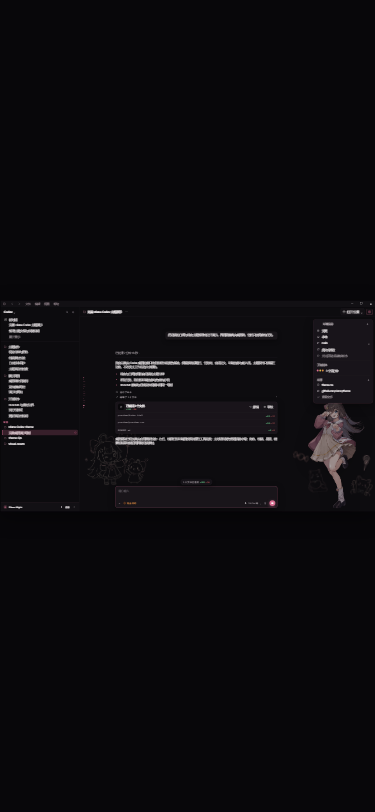
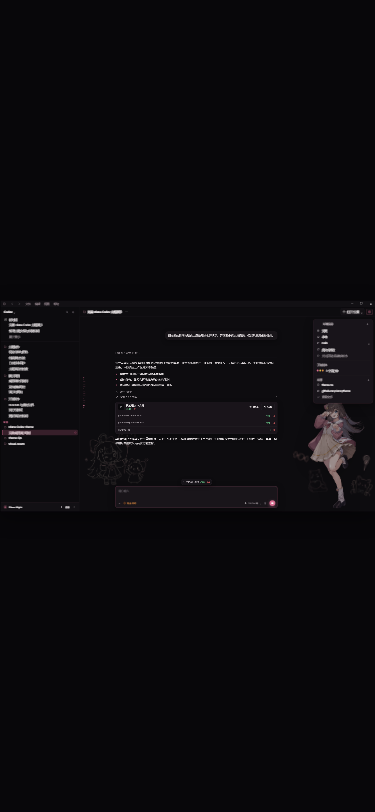
Add narrated Diana demo with subtitles and original music

Changed region(s): [[0.2933, 0.4002, 0.7333, 0.5542]]

diff --git a/preview/preview.css b/preview/preview.css
@@ -29,6 +29,8 @@
   --video-caption-opacity: 0;
   --video-caption-shift: 12px;
   --video-transition-opacity: 0;
+  --video-intro-opacity: 0;
+  --video-intro-scale: 1;
   --video-end-opacity: 0;
   --video-end-shift: 18px;
   --video-camera-scale: 1;
@@ -240,6 +242,22 @@ button:focus-visible, textarea:focus-visible, select:focus-visible, input:focus-
 .source-heading .inspector-label { margin-bottom: 0; }
 
 .video-transition { position: absolute; z-index: 40; inset: 0; background: var(--video-transition-color, #fbf8f6); opacity: 0; pointer-events: none; }
+.video-intro { position: absolute; z-index: 50; inset: 0; overflow: hidden; background: radial-gradient(circle at 72% 48%, rgb(104 53 72 / 22%), transparent 28%), linear-gradient(135deg, #0c0b0e 0%, #121015 58%, #0b0a0d 100%); color: #f7eef2; opacity: 0; transform: scale(var(--video-intro-scale)); transform-origin: center; pointer-events: none; }
+.video-intro::before { content: ""; position: absolute; inset: 34px; border: 1px solid rgb(226 126 160 / 15%); border-radius: 24px; }
+.video-intro-orbit { position: absolute; left: 50%; top: 50%; width: 760px; height: 760px; border: 1px solid rgb(231 153 176 / 14%); border-radius: 50%; transform: translate(-12%, -50%); box-shadow: 0 0 0 72px rgb(231 153 176 / 2.5%), 0 0 0 190px rgb(231 153 176 / 1.5%); }
+.video-intro-doodle { position: absolute; left: 92px; bottom: -46px; width: 520px; aspect-ratio: 1267 / 1241; background: url("../assets/diana-brand/derived/diana-doodle-chalk-v2-approved.png") center / contain no-repeat; opacity: .31; filter: brightness(.88) saturate(.82); }
+.video-intro-character { position: absolute; right: 86px; bottom: -86px; width: 650px; height: 990px; background: url("../assets/diana-brand/derived/diana-night-v3.png") right bottom / contain no-repeat; opacity: .72; filter: brightness(1.04) saturate(.92) drop-shadow(0 34px 80px rgb(0 0 0 / 38%)); }
+.video-intro-copy { position: absolute; z-index: 2; left: 470px; top: 395px; display: grid; gap: 12px; }
+.video-intro-copy::before { content: ""; width: 62px; height: 3px; margin-bottom: 6px; border-radius: 99px; background: #df7196; box-shadow: 0 0 22px rgb(223 113 150 / 32%); }
+.video-intro-copy small { color: #dc7899; font: 650 12px/1.4 "Cascadia Code", Consolas, monospace; letter-spacing: .18em; }
+.video-intro-copy strong { font-size: 62px; line-height: 1.05; letter-spacing: -.045em; }
+.video-intro-copy strong i { color: #d87898; font-style: normal; font-weight: 450; }
+.video-intro-copy p { margin: 0; color: rgb(247 238 242 / 62%); font: 500 18px/1.5 "Cascadia Code", Consolas, monospace; letter-spacing: .04em; }
+.video-intro-star, .video-intro-candy { position: absolute; display: block; background-position: center; background-size: contain; background-repeat: no-repeat; }
+.video-intro-star { width: 52px; aspect-ratio: 1; background-image: url("../assets/diana-brand/derived/diana-hand-star-reference-v2.png"); opacity: .62; filter: brightness(.92) saturate(.84); }
+.video-intro-star-a { left: 386px; top: 314px; transform: rotate(-13deg); }
+.video-intro-star-b { right: 70px; top: 104px; width: 36px; transform: rotate(11deg); }
+.video-intro-candy { left: 876px; bottom: 156px; width: 78px; aspect-ratio: 1; background-image: url("../assets/diana-brand/derived/diana-candy-wrapped-v1.png"); opacity: .56; filter: brightness(.88) saturate(.86); transform: rotate(9deg); }
 .video-caption { position: absolute; z-index: 32; left: 455px; top: 103px; display: flex; align-items: stretch; gap: 14px; min-width: 390px; padding: 12px 17px 12px 13px; border: 1px solid color-mix(in srgb, var(--accent) 30%, transparent); border-radius: 12px; background: color-mix(in srgb, var(--panel-strong) 88%, transparent); color: var(--ink); box-shadow: 0 16px 42px var(--shadow); backdrop-filter: blur(12px); opacity: 0; transform: translateY(12px); pointer-events: none; }
 .video-caption-index { width: 38px; display: grid; place-items: center; border-right: 1px solid var(--work-panel-border); color: var(--accent); font: 650 12px/1 "Cascadia Code", Consolas, monospace; letter-spacing: .08em; }
 .video-caption > div { display: grid; gap: 2px; }
@@ -253,6 +271,7 @@ button:focus-visible, textarea:focus-visible, select:focus-visible, input:focus-
 .video-end-card code { display: inline-block; padding: 8px 11px; border: 1px solid var(--work-panel-border); border-radius: 8px; background: var(--accent-wash); color: color-mix(in srgb, var(--ink) 78%, var(--accent)); font: 12px/1.4 "Cascadia Code", Consolas, monospace; }
 :root[data-video="on"] .app-grid { transition: none !important; }
 :root[data-video="on"] .video-transition { opacity: var(--video-transition-opacity); }
+:root[data-video="on"] .video-intro { opacity: var(--video-intro-opacity); }
 :root[data-video="on"] .video-caption { opacity: var(--video-caption-opacity); transform: translateY(var(--video-caption-shift)); }
 :root[data-video="on"] .video-end-card { opacity: var(--video-end-opacity); transform: translate(-50%, calc(-50% + var(--video-end-shift))); }
 :root[data-video="on"] :is(.simulation-note, .demo-controls, .controls-open) { display: none !important; }

diff --git a/preview/preview.js b/preview/preview.js
@@ -106,7 +106,7 @@ setScene(params.get('scene') || root.dataset.scene);
 if (params.has('time')) renderTimeline(Number(params.get('time')));
 setPlaying(params.get('play') === '1');
 
-const videoDuration = 30;
+const videoDuration = 45;
 const easeInOut = (value) => {
   const t = clamp(value);
   return t < .5 ? 2 * t * t : 1 - Math.pow(-2 * t + 2, 2) / 2;
@@ -126,41 +126,46 @@ function setVideoCaption(index, title, opacity) {
 
 function renderVideo(rawTime) {
   const time = Math.min(videoDuration, Math.max(0, Number(rawTime) || 0));
-  const lightPhase = time >= 15 && time < 25.2;
+  const lightPhase = time >= 23.5 && time < 35.5;
   setTheme(lightPhase ? 'light' : 'dark');
   root.dataset.inspector = 'open';
   panelToggle.setAttribute('aria-pressed', 'true');
   panelToggle.classList.add('is-on');
 
   let timelineProgress = .12;
-  if (time >= 2 && time < 7) timelineProgress = .12 + ramp(time, 2, 7) * .46;
-  else if (time >= 7 && time < 12.4) timelineProgress = .58 + ramp(time, 7, 12.4) * .36;
-  else if (time >= 12.4 && time < 15) timelineProgress = .94;
-  else if (time >= 15 && time < 17.2) timelineProgress = .12 + ramp(time, 15, 17.2) * .46;
-  else if (time >= 17.2 && time < 21.4) timelineProgress = .58 + ramp(time, 17.2, 21.4) * .36;
+  if (time >= 3 && time < 10) timelineProgress = .12 + ramp(time, 3, 10) * .46;
+  else if (time >= 10 && time < 20.8) timelineProgress = .58 + ramp(time, 10, 20.8) * .36;
+  else if (time >= 20.8 && time < 23.5) timelineProgress = .94;
+  else if (time >= 23.5 && time < 27) timelineProgress = .12 + ramp(time, 23.5, 27) * .46;
+  else if (time >= 27 && time < 33.5) timelineProgress = .58 + ramp(time, 27, 33.5) * .36;
   else timelineProgress = .94;
   renderTimeline(timelineProgress);
 
-  let caption = { index: '01', title: '暗夜，不牺牲工作区', opacity: holdOpacity(time, .45, 4.4) };
-  if (time >= 5.5 && time < 13.2) caption = { index: '02', title: '真实任务密度与原生信息层级', opacity: holdOpacity(time, 6.2, 12.6, .65) };
-  if (time >= 15 && time < 20.4) caption = { index: '03', title: '日间，暖白与彩色细线', opacity: holdOpacity(time, 15.65, 20, .65) };
-  if (time >= 20.4 && time < 25) caption = { index: '04', title: '边角陪伴，不拦截任何交互', opacity: holdOpacity(time, 20.8, 24.55, .6) };
-  if (time >= 25) caption = { index: '04', title: '', opacity: 0 };
+  let caption = { index: '01', title: '为 Windows Codex 制作', opacity: holdOpacity(time, 3.15, 7.15) };
+  if (time >= 7.15 && time < 14.6) caption = { index: '02', title: '暗夜，暖黑与莓粉', opacity: holdOpacity(time, 7.55, 14.15, .65) };
+  if (time >= 14.6 && time < 23.2) caption = { index: '03', title: '保留原生信息与交互层级', opacity: holdOpacity(time, 15, 22.75, .65) };
+  if (time >= 23.2 && time < 30.5) caption = { index: '04', title: '日间，暖白与彩色细线', opacity: holdOpacity(time, 24.05, 30.05, .65) };
+  if (time >= 30.5 && time < 35.3) caption = { index: '05', title: '日夜切换，也能随时恢复', opacity: holdOpacity(time, 30.85, 34.95, .6) };
+  if (time >= 35.3) caption = { index: '05', title: '', opacity: 0 };
   setVideoCaption(caption.index, caption.title, caption.opacity);
 
-  const firstTransition = Math.max(0, 1 - Math.abs(time - 15) / .72);
-  const secondTransition = Math.max(0, 1 - Math.abs(time - 25.2) / .58);
+  const firstTransition = Math.max(0, 1 - Math.abs(time - 23.5) / .72);
+  const secondTransition = Math.max(0, 1 - Math.abs(time - 35.5) / .58);
   const transitionOpacity = Math.pow(Math.max(firstTransition, secondTransition), .72) * .985;
   root.style.setProperty('--video-transition-opacity', transitionOpacity.toFixed(3));
-  root.style.setProperty('--video-transition-color', time < 20 ? '#fbf8f6' : '#0d0c0f');
+  root.style.setProperty('--video-transition-color', time < 30 ? '#fbf8f6' : '#0d0c0f');
+
+  const introOpacity = 1 - ramp(time, 2.15, 3.05);
+  root.style.setProperty('--video-intro-opacity', introOpacity.toFixed(3));
+  root.style.setProperty('--video-intro-scale', (1 + ramp(time, 0, 3.05) * .018).toFixed(5));
 
   const cameraPulse = Math.max(
-    holdOpacity(time, 7.7, 12.7, 1.2),
-    holdOpacity(time, 20.8, 24.6, .9)
+    holdOpacity(time, 11, 20.6, 1.2),
+    holdOpacity(time, 26.7, 34.8, .9)
   );
   root.style.setProperty('--video-camera-scale', (1 + cameraPulse * .012).toFixed(5));
 
-  const endOpacity = ramp(time, 25.7, 27.1);
+  const endOpacity = ramp(time, 36.1, 37.35);
   root.style.setProperty('--video-end-opacity', endOpacity.toFixed(3));
   root.style.setProperty('--video-end-shift', `${((1 - endOpacity) * 18).toFixed(2)}px`);
   return { time, theme: root.dataset.theme, timelineProgress, caption: caption.title, endOpacity };

diff --git a/preview/index.html b/preview/index.html
@@ -82,6 +82,19 @@
         </main>
       </div>
       <div class="video-transition" aria-hidden="true"></div>
+      <div class="video-intro" aria-hidden="true">
+        <span class="video-intro-orbit"></span>
+        <span class="video-intro-doodle"></span>
+        <span class="video-intro-character"></span>
+        <span class="video-intro-star video-intro-star-a"></span>
+        <span class="video-intro-star video-intro-star-b"></span>
+        <span class="video-intro-candy"></span>
+        <div class="video-intro-copy">
+          <small>DAY / NIGHT · OPEN SOURCE</small>
+          <strong>嘉然 <i>×</i> Codex</strong>
+          <p>Diana Codex Theme</p>
+        </div>
+      </div>
       <div class="video-caption" aria-hidden="true">
         <span class="video-caption-index">01</span>
         <div><small>Diana Codex Theme</small><strong>暗夜，不牺牲工作区</strong></div>

diff --git a/README.md b/README.md
@@ -4,7 +4,7 @@
 
 一套为 Windows Codex 桌面端制作的嘉然（Diana）非商业同人主题。日间与暗夜分别设计，保留 Codex 原本的工具感，只让嘉然与手绘线稿安静地停留在工作区边角。
 
-[在线演示](https://lanmengsakura.github.io/diana-codex-theme/) · [30 秒演示视频](https://github.com/lanmengSakura/diana-codex-theme/releases/download/v0.1.0/diana-codex-theme-demo-v1.mp4) · [下载发行包](https://github.com/lanmengSakura/diana-codex-theme/releases/latest) · [兼容性记录](docs/compatibility.md) · [参与贡献](CONTRIBUTING.md)
+[在线演示](https://lanmengsakura.github.io/diana-codex-theme/) · [45 秒带声演示](https://github.com/lanmengSakura/diana-codex-theme/releases/download/v0.1.0/diana-codex-theme-demo-v2-zh-CN.mp4) · [下载发行包](https://github.com/lanmengSakura/diana-codex-theme/releases/latest) · [兼容性记录](docs/compatibility.md) · [参与贡献](CONTRIBUTING.md)
 
 ![Release](https://img.shields.io/github/v/release/lanmengSakura/diana-codex-theme?display_name=tag&color=b84970&label=release)
 ![Platform](https://img.shields.io/badge/platform-Windows%2011-b85f7c)
@@ -18,7 +18,7 @@
 
 ## 效果预览
 
-<p align="center"><a href="https://github.com/lanmengSakura/diana-codex-theme/releases/download/v0.1.0/diana-codex-theme-demo-v1.mp4"><strong>▶ 观看 30 秒日间／暗夜主题演示</strong></a></p>
+<p align="center"><a href="https://github.com/lanmengSakura/diana-codex-theme/releases/download/v0.1.0/diana-codex-theme-demo-v2-zh-CN.mp4"><strong>▶ 观看 45 秒中文旁白、字幕与原创配乐演示</strong></a></p>
 
 <a href="https://lanmengsakura.github.io/diana-codex-theme/?theme=dark&scene=complete&controls=none">
   <img src="preview/qa/readme-dark-1600x900.png" alt="Diana Night 暗夜主题高保真模拟界面" width="100%">
@@ -132,13 +132,13 @@ preview/index.html?theme=light&scene=complete&controls=none
 preview/index.html?theme=dark&scene=inspect&controls=none&play=1
 ```
 
-仓库同时保留了宣传视频的确定性时间轴和逐帧渲染器。维护者在本机准备 Chrome CDP `9227` 端口及 FFmpeg 后，可以重新导出同款 30 秒、`1920 × 1080`、`30fps` 成片：
+仓库同时保留了宣传视频的确定性时间轴、旁白母稿、字幕、原创配乐生成器和逐帧渲染器。维护者在本机准备 Chrome CDP `9227` 端口、FFmpeg、Python 与 `edge-tts` 后，可以重新导出同款 45 秒、`1920 × 1080`、`30fps` 带声成片：
 
 ```powershell
-npm run preview:video
+npm run preview:video:narrated
 ```
 
-脚本只读取这套虚构桌面母版，不会捕获真实 Codex 窗口或用户数据；生成的 MP4 与封面位于 `dist/`，不会自动写入 Git 历史。
+只需要无声视觉母版时，可以执行 `npm run preview:video`。完整脚本只读取这套虚构桌面母版，不会捕获真实 Codex 窗口或用户数据；生成的 MP4、旁白、配乐与封面位于 `dist/`，不会自动写入 Git 历史。配乐由仓库脚本原创合成，不包含官方歌曲、嘉然翻唱或第三方录音；具体边界见 [素材许可与署名](ASSET_LICENSES.md)。
 
 ## 它是怎样工作的
 

diff --git a/ASSET_LICENSES.md b/ASSET_LICENSES.md
@@ -23,6 +23,16 @@
 
 The character name, likeness, artwork, and derivative image are **not** covered by this repository's MIT License. Reusers must independently comply with the applicable official fan-creation rules and preserve attribution where required.
 
+## Demo video audio
+
+- Chinese narration source: `video/narration-zh-CN.txt`
+- Timed subtitle source: `video/subtitles-zh-CN.srt`
+- Original background-music generator: `video/generate-bgm.mjs`
+- The released demo uses an original deterministic bell, pluck, pad and soft-bass arrangement generated by the repository script. It does not sample, reproduce, remix or redistribute an official A-SOUL song, a Diana cover, or a third-party recording.
+- The narration is generated from the repository script text; no Diana voice sample or cloned character voice is used.
+
+The music generator and narration/subtitle text are covered by the repository's MIT License. The rendered video still contains the Diana visual assets described above and therefore remains a non-commercial fan work rather than an all-assets-MIT package.
+
 ## OpenAI / Codex
 
 This repository contains no Codex application binaries, proprietary application assets, or modified installation packages. “Codex” is used only to describe compatibility with the target application. This project is unofficial and is not endorsed by OpenAI.

diff --git a/video/README.md b/video/README.md
@@ -1,0 +1,9 @@
+# 宣传视频素材
+
+这里保存宣传片的可编辑文本与生成脚本，不提交最终 MP4、WAV 或临时渲染帧。
+
+- `narration-zh-CN.txt`：中文旁白母稿。
+- `subtitles-zh-CN.srt`：按照成片时间轴整理的中文字幕。
+- `generate-bgm.mjs`：生成不引用现有歌曲旋律的原创主题感背景音乐。
+
+正式成片使用嘉然主题的视觉元素，但不会将官方歌曲、翻唱或第三方录音作为仓库素材再分发。
